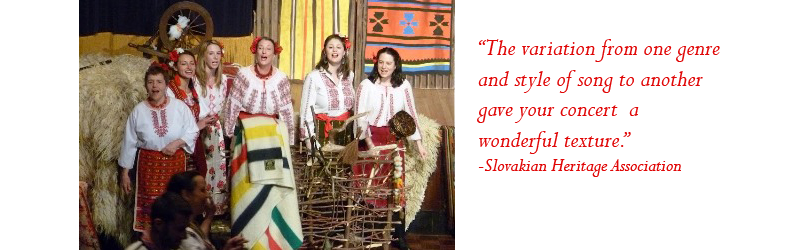
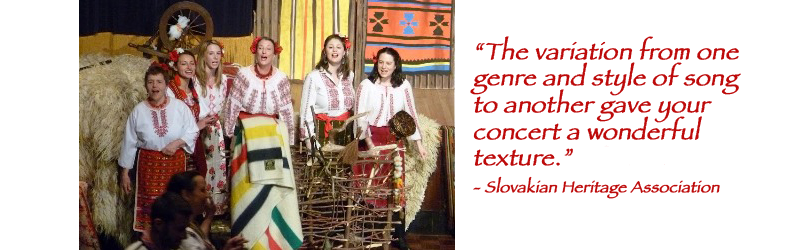
Font change and transparent images
Changed the font in the nav and the h1 to consistently be papyrus.
finished deleting the background in the rest of the images also

Changed region(s): [[0.5794, 0.14, 0.9454, 0.812]]

diff --git a/styles/main.css b/styles/main.css
@@ -20,19 +20,20 @@ body {
 	padding: 1%;	
 	background: rgba(255,255,255,.7);
 	border-radius: 60px;
-	background: -moz-linear-gradient(top,  rgba(255,255,255,1) 0%, rgba(255,255,255,1) 19%, rgba(255,255,255,0.6) 100%); /* FF3.6+ */
+	box-shadow: 3px 3px 2px rgba(250,250,250,0.68);
+	background: -moz-linear-gradient(top,  rgba(255,255,255,0.84) 0%, rgba(221,221,221,0.48) 100%); /* FF3.6+ */
 
-	background: -webkit-gradient(linear, left top, left bottom, color-stop(0%,rgba(255,255,255,1)), color-stop(19%,rgba(255,255,255,1)), color-stop(100%,rgba(255,255,255,0.6))); /* Chrome,Safari4+ */
+	background: -webkit-gradient(linear, left top, left bottom, color-stop(0%,rgba(255,255,255,0.84)), color-stop(100%,rgba(221,221,221,0.48))); /* Chrome,Safari4+ */
 	
-	background: -webkit-linear-gradient(top,  rgba(255,255,255,1) 0%,rgba(255,255,255,1) 19%,rgba(255,255,255,0.6) 100%); /* Chrome10+,Safari5.1+ */
+	background: -webkit-linear-gradient(top,  rgba(255,255,255,0.84) 0%,rgba(221,221,221,0.48) 100%); /* Chrome10+,Safari5.1+ */
 	
-	background: -o-linear-gradient(top,  rgba(255,255,255,1) 0%,rgba(255,255,255,1) 19%,rgba(255,255,255,0.6) 100%); /* Opera 11.10+ */
+	background: -o-linear-gradient(top,  rgba(255,255,255,0.84) 0%,rgba(221,221,221,0.48) 100%); /* Opera 11.10+ */
 	
-	background: -ms-linear-gradient(top,  rgba(255,255,255,1) 0%,rgba(255,255,255,1) 19%,rgba(255,255,255,0.6) 100%); /* IE10+ */
+	background: -ms-linear-gradient(top,  rgba(255,255,255,0.84) 0%,rgba(221,221,221,0.48) 100%); /* IE10+ */
 	
-	background: linear-gradient(to bottom,  rgba(255,255,255,1) 0%,rgba(255,255,255,1) 19%,rgba(255,255,255,0.6) 100%); /* W3C */
+	background: linear-gradient(to bottom,  rgba(255,255,255,0.84) 0%,rgba(221,221,221,0.48) 100%); /* W3C */
 	
-	filter: progid:DXImageTransform.Microsoft.gradient( startColorstr='#ffffff', endColorstr='#99ffffff',GradientType=0 ); /* IE6-9 */
+	filter: progid:DXImageTransform.Microsoft.gradient( startColorstr='#d6ffffff', endColorstr='#7adddddd',GradientType=0 ); /* IE6-9 */
 
 
 
@@ -99,8 +100,8 @@ nav ul li a {
   padding: 10px 20px;
   color: #690303; 
   text-decoration: none;
-  font-family: 'Eagle Lake', sans-serif;
-  font-size: 1.2em;
+  font-family: papyrus, sans-serif;
+  font-size: 1.6em;
 }
 
 nav ul ul {
@@ -196,7 +197,7 @@ nav ul ul li a:hover, nav ul ul li a:active {
   h1 {
 	  display: inline-block;
 	  margin: 0;
-	  font-family: 'Eagle Lake', sans-serif;
+	  font-family: papyrus, sans-serif;
   }
   
   
@@ -245,7 +246,9 @@ footer p {
 	padding-left: 7%;
 	width:90%;
 }
-	
+	nav ul li a {
+		font-size: 1.5em;
+	}
 	
 }
 
@@ -253,6 +256,10 @@ footer p {
 	nav ul {
 	padding-left: 1%;
 	width:96%;
+}
+
+nav ul li a {
+	font-size: 1.4em;	
 }
 
 .social {
@@ -318,14 +325,14 @@ footer p {
 	}	
 	
 	.slicknav_nav {
-		font-size: 1.6em;
-		line-height: 1.6em;
+		font-size: 1.8em;
+		line-height: 1.8em;
 		text-align: center;
 	}
 	
 	.slicknav_nav a {
-		font-family: 'Eagle Lake', sans-serif;
-		color: #690303;
+		font-family: papyrus, sans-serif;
+		color: #fff;
 	}
 	
 	#logo {

diff --git a/index.html b/index.html
@@ -13,7 +13,7 @@
             <header>
                 <div id="header-content" class="group">
                 <div id="logo">
-                        <img src="images/svitanya-logo-resized.jpg" alt="svitanya" />
+                        <img src="images/svitanya-logo-resized.png" alt="svitanya" />
                     </div>  
                   <div id="main-navigation" class="group">
                         <nav>
@@ -55,17 +55,17 @@
              	<ul class="rslides">
                   <li><img src="images/slider/2-bulgaria-2013-ss.jpg" alt="Svitanya"></li>
                   <li><img src="images/slider/another-quote-6.png" alt="Svitanya"></li>
-                  <li><img src="images/slider/another-quote.jpg" alt="Svitanya"></li>
+                  <li><img src="images/slider/another-quote.png" alt="Svitanya"></li>
                   <li><img src="images/slider/bulg-embassy.jpg" alt="Svitanya"></li>
                   <li><img src="images/slider/GF2014-ss.jpg" alt="Svitanya"></li>
-                  <li><img src="images/slider/lamama-andrea-quote.jpg" alt="Svitanya"></li>
-                  <li><img src="images/slider/main-line-reform-2013-ss.jpg" alt="Svitanya"></li>
+                  <li><img src="images/slider/lamama-andrea-quote.png" alt="Svitanya"></li>
+                  <li><img src="images/slider/main-line-reform-2013-ss.png" alt="Svitanya"></li>
                   <li><img src="images/slider/main-line-reform-2014-ss.jpg" alt="Svitanya"></li>
-                  <li><img src="images/slider/poc1-sofia-bulgaria-2013-ss.jpg" alt="Svitanya"></li>
-                  <li><img src="images/slider/slavi-show-bulgaria-2013-ss.jpg" alt="Svitanya"></li>
+                  <li><img src="images/slider/poc1-sofia-bulgaria-2013-ss.png" alt="Svitanya"></li>
+                  <li><img src="images/slider/slavi-show-bulgaria-2013-ss.png" alt="Svitanya"></li>
                   <li><img src="images/slider/Svitanya-Clearfield-Salon-9-28-14-cr-ss.jpg" alt="Svitanya"></li>
-                  <li><img src="images/slider/svitanya-fma-quote-ss.jpg" alt="Svitanya"></li>
-                  <li><img src="images/slider/svitanya-sherhart-quote.jpg" alt="Svitanya"></li>
+                  <li><img src="images/slider/svitanya-fma-quote-ss.png" alt="Svitanya"></li>
+                  <li><img src="images/slider/svitanya-sherhart-quote.png" alt="Svitanya"></li>
                       
                </ul>
            
